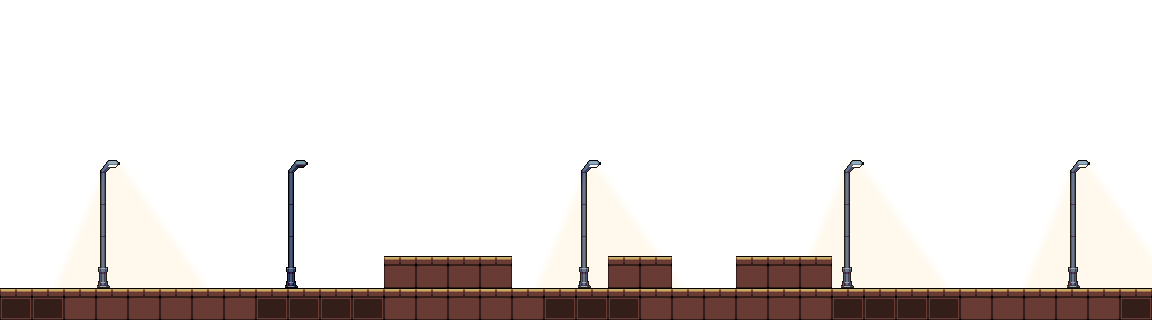
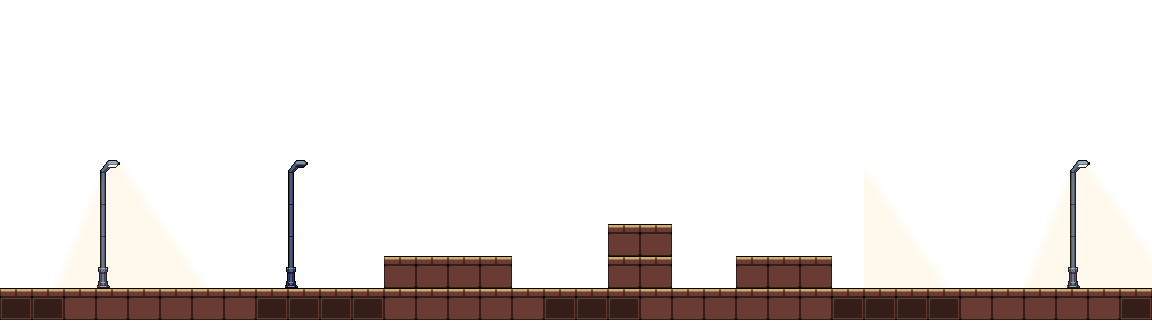
jump mechanics changed

Changed region(s): [[0.5, 0.4938, 0.5938, 0.8951], [0.7188, 0.4938, 0.75, 0.8951]]

diff --git a/js/main.js b/js/main.js
@@ -72,10 +72,8 @@ var noEnemies = false;
 var moving_backwards = false; 
 
 var tlJump = gsap.timeline({paused:true});
-tlJump = gsap.timeline({paused:true, onStart:function(){  }, onComplete:function(){
-    keysWait=false; 
-    isPlayer.jump=false;
-}});
+tlJump = gsap.timeline({paused:true});
+
 var deathTL = gsap.timeline({paused:true, onComplete:function(){
     // [todo] - activate reset button
     restart_btn.addEventListener("click", restartGame);
@@ -920,6 +918,8 @@ function checkPlayerPosition() {
             
             if(playerR > obstacleL && playerL < obstacleL){
                 player.x=obstacleL-player.hitW;
+
+                // [todo]- player gets stuck next to tall block! 
             }
             if(playerL < obstacleR && playerR > obstacleR){
                 // player.x=obstacleR-player.hitXB;
@@ -942,20 +942,9 @@ function checkPlayerPosition() {
                 player.x-=2;
             }
 
-            // you're jumping into the obs area but not yet on it's level
-            if(tlJump.isActive() && onObstacle==-1) {
             
-                tlJump.pause();
-
-                if(player.y<obstacleT-player.height){
-                    gsap.to(player,.2,{y:obstacleT-player.height-1,ease:"power3.in",onComplete:function(){
-                        keysWait=false; 
-                        isPlayer.jump=false;
-                        onObstacle=curr_obs;
-
-                        setupJumpTL();
-                    }},0)
-                } 
+            if(player_ground.y>obstacleT){
+                player_ground.y=obstacleT;
             } 
 
 // not within obstacle
@@ -966,7 +955,7 @@ function checkPlayerPosition() {
             if(!tlJump.isActive()){
                 if(playerR < obstacleL || playerL > obstacleR){
                     onObstacle=-1;
-                    player.y=player_ground.floor;
+                    player_ground.y=player_ground.floor;
                 }
             }
 
@@ -979,8 +968,29 @@ function checkPlayerPosition() {
                 player.x-=2;
             }
         }
+
+        if(playerB<player_ground.y) {
+            isPlayer.jump=true;
+            keysWait=true; 
+
+            // .addLabel('down', ">")
+            // gsap.to(player,0.263,{y:function(){ return (player_ground.y-player.height) },overwrite:true,ease:"sine.in"});
+            // console.log(player_ground.y-playerB);
+            player.y++;
+            player.y++;
+
+            // if(player_ground.y-playerB<player.jumpH){
+                player.y++;
+                player.y++;
+            // }
+        } else {
+            keysWait=false; 
+            isPlayer.jump=false;
+        }
     
-    
+    // console.log(curr_obs);
+
+/////// ENEMY COLLISIONS: //////////
 
     var enemyL = enemy[whichEnemyIndex].x+enemy[whichEnemyIndex].hitX;
     if(isEnemy.runBack) { enemyL = enemy[whichEnemyIndex].x+enemy[whichEnemyIndex].hitXB; }
@@ -1023,7 +1033,7 @@ function checkPlayerPosition() {
     }
 
 
-    // if enemy is being hit by shoot:
+/////// PLAYER SHOOT HITS: //////////
     if(isPlayer.attack) {
         if(playerR<enemyL 
          && playerT+player_shoot.offsetY>=enemyT){
@@ -1064,7 +1074,9 @@ function checkPlayerPosition() {
         isEnemy.hurtBack=false; 
     }
 
-    // enemy repeat 
+    
+
+/////// ENEMY REPEAT OR OFF SCREEN / TURN BACK: //////////
     if(!isEnemy.killed && !isEnemy.attack){
         
 
@@ -1102,21 +1114,9 @@ function checkPlayerPosition() {
 }
 
 function setupJumpTL(){
-    if(onObstacle!=-1){ 
-        player_ground.y=player_ground.floor-obstacle[0].h;
-    } else {
-        player_ground.y=player_ground.floor;
-    }
-
-    tlJump = gsap.timeline({paused:true, onComplete:function(){
-        keysWait=false; 
-        isPlayer.jump=false;
-    }});
-    
+    tlJump = gsap.timeline({paused:true});
     tlJump.addLabel('up', 0)
-        .to(player,{y:function(){ return player_ground.y-player.jumpH },ease:"power3.out", duration:0.338},"up")
-        .addLabel('down', ">")
-        .to(player,0.263,{y:function(){ return player_ground.y },ease:"sine.in"},"down");
+        .to(player,{y:"-="+player.jumpH,ease:"power3.out", duration:0.338},"up");
 }
 
     

diff --git a/js/fg-vars.js b/js/fg-vars.js
@@ -6,7 +6,7 @@ var fgsList = [
 {id:"01", url:"images/Foreground/fg0.png", x:-fg.width,y:0},
 {id:"02", url:"images/Foreground/fg0.png", x:0,y:0},
 {id:"03", url:"images/Foreground/fg1.png", x:fg.width,y:0},
-{id:"04", url:"images/Foreground/fg1.png", x:fg.width*2,y:0},
+{id:"04", url:"images/Foreground/fg2.png", x:fg.width*2,y:0},
 {id:"05", url:"images/Foreground/fg0.png", x:fg.width*3,y:0}
 // {url:"images/Foreground/fg1.png", x:fg.width*4,y:0},
 // {url:"images/Foreground/fg0.png", x:fg.width*5,y:0},
@@ -21,7 +21,7 @@ var fgsImgIndex = {}
 	
 var obstacle = [
 	{x:(1152)+384,y:(32*8),w:(32*4),h:32},
-	{x:(1152)+608,y:(32*8),w:(32*2),h:32},
+	{x:(1152)+608,y:(32*7),w:(32*2),h:64},
 	{x:(1152)+736,y:(32*8),w:(32*3),h:32},
 	{x:(1152*2)+384,y:(32*8),w:(32*4),h:32},
 	{x:(1152*2)+608,y:(32*8),w:(32*2),h:32},

diff --git a/js/player-vars.js b/js/player-vars.js
@@ -1,7 +1,6 @@
-var player_ground={y:240,floor:240}
-var player = {x:0,y:player_ground.y,width:48,height:48,hitW:30,hitX:0,hitXB:20,hitH:36,hitY:12,health:500,jumpH:60};
-// player.y=player_ground.y-player.height;
-
+var player_ground={y:288,floor:288}
+var player = {x:0,y:0,width:48,height:48,hitW:30,hitX:0,hitXB:20,hitH:36,hitY:12,health:500,jumpH:60};
+player.y=player_ground.y-player.height; 
 
 var isPlayer = {
     idle:true,
